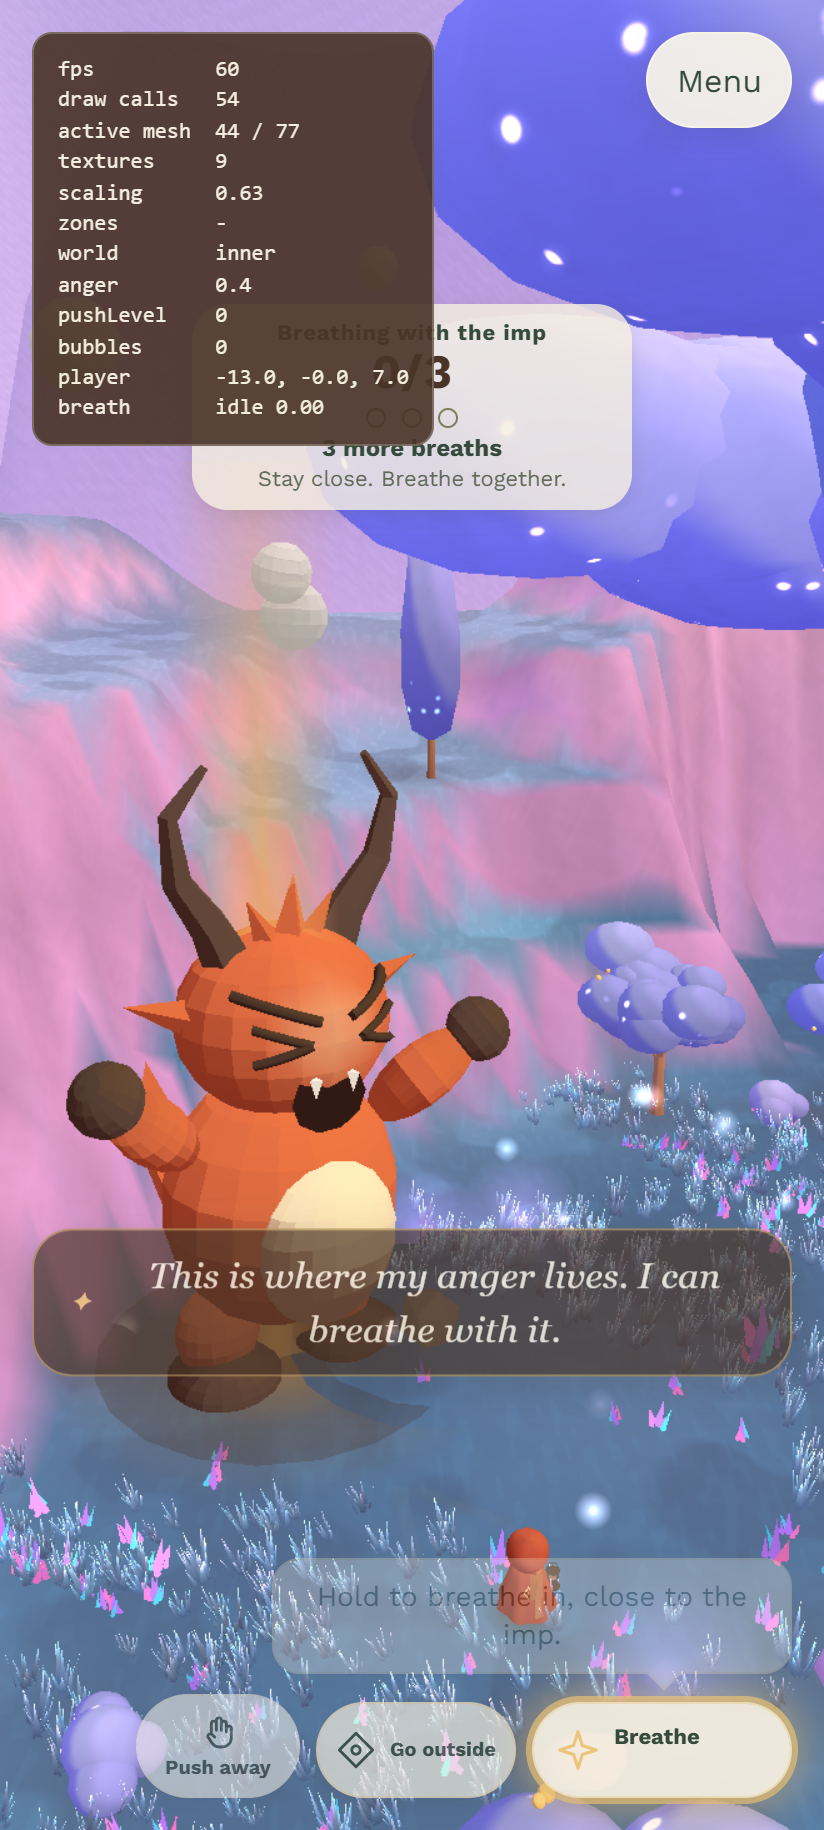
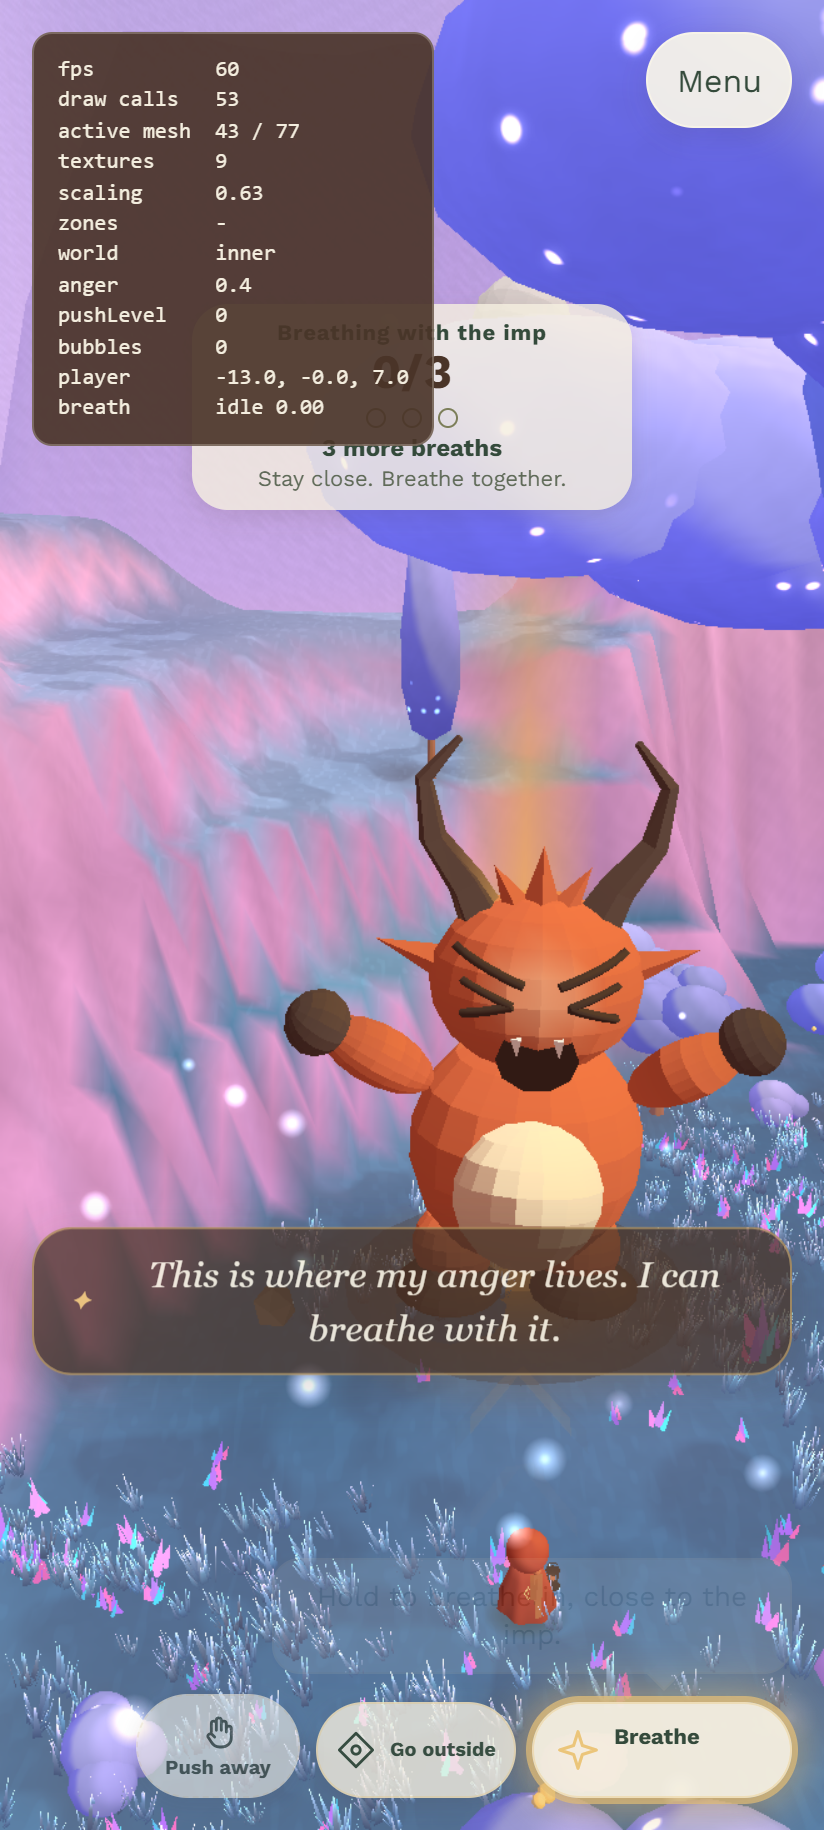
touch: how you press decides - hold to walk, swipe to turn camera, pinch to zoom

diff --git a/src/ui/TouchRouter.ts b/src/ui/TouchRouter.ts
@@ -1,52 +1,143 @@
+import { TUNING } from '../config/tuning';
 import type { Joystick } from './Joystick';
 
 /** What the router drives for the camera finger. */
 export interface LookTarget {
   dragStart(x: number, y: number): void;
-  dragMove(x: number, y: number): void;
+  dragMove(x: number, y: number, speed?: number): void;
   dragEnd(): void;
+  /** Multiplies the camera distance (pinch). Below 1 = closer. */
+  zoomBy(factor: number): void;
+}
+
+type Role = 'pending' | 'walk' | 'look' | 'pinch' | 'dead';
+
+interface Finger {
+  role: Role;
+  sx: number;
+  sy: number;
+  x: number;
+  y: number;
+  t: number;
+  timer: number;
 }
 
 /**
- * One full-screen touch zone. The first finger walks (joystick under it),
- * a finger that arrives while one walks turns the camera. Mouse is ignored.
+ * One full-screen touch zone. How a finger lands decides what it does:
+ * - rests briefly, then slides: walks (joystick under it);
+ * - moves fast right away: turns the camera;
+ * - two moving fingers: pinch zoom.
+ * A walking finger and a looking finger work together. Mouse is ignored.
  */
 export class TouchRouter {
-  private readonly roles = new Map<number, 'walk' | 'look'>();
+  private readonly fingers = new Map<number, Finger>();
+  private pinchDist = 0;
 
   constructor(
     zone: HTMLElement,
     private readonly stick: Joystick,
     private readonly look: LookTarget,
   ) {
+    const T = TUNING.touch;
     zone.addEventListener('pointerdown', (e) => {
-      if (e.pointerType === 'mouse' || this.roles.has(e.pointerId)) return;
+      if (e.pointerType === 'mouse' || this.fingers.has(e.pointerId)) return;
       e.preventDefault();
-      const roles = [...this.roles.values()];
-      if (!roles.includes('walk')) {
-        this.roles.set(e.pointerId, 'walk');
-        this.stick.begin(e.clientX, e.clientY);
-      } else if (!roles.includes('look')) {
-        this.roles.set(e.pointerId, 'look');
-        this.look.dragStart(e.clientX, e.clientY);
-      } else return;
       zone.setPointerCapture(e.pointerId);
+      const f: Finger = { role: 'pending', sx: e.clientX, sy: e.clientY, x: e.clientX, y: e.clientY, t: performance.now(), timer: 0 };
+      this.fingers.set(e.pointerId, f);
+      if (!this.has('walk')) this.stick.preview(f.sx, f.sy);
+      f.timer = window.setTimeout(() => this.decideHold(f), T.holdMs);
     });
     zone.addEventListener('pointermove', (e) => {
-      const role = this.roles.get(e.pointerId);
-      if (!role) return;
+      const f = this.fingers.get(e.pointerId);
+      if (!f) return;
       e.preventDefault();
-      if (role === 'walk') this.stick.moveTo(e.clientX, e.clientY);
-      else this.look.dragMove(e.clientX, e.clientY);
+      f.x = e.clientX;
+      f.y = e.clientY;
+      if (f.role === 'pending') {
+        if (Math.hypot(f.x - f.sx, f.y - f.sy) > T.swipeStartPx) {
+          if (performance.now() - f.t <= T.holdMs) this.decideMove(f);
+          else this.decideHold(f);
+        }
+        return;
+      }
+      if (f.role === 'walk') this.stick.moveTo(f.x, f.y);
+      else if (f.role === 'look') this.look.dragMove(f.x, f.y, T.lookSpeed);
+      else if (f.role === 'pinch') this.pinchMove();
     });
     const end = (e: PointerEvent): void => {
-      const role = this.roles.get(e.pointerId);
-      if (!role) return;
-      this.roles.delete(e.pointerId);
-      if (role === 'walk') this.stick.end();
-      else this.look.dragEnd();
+      const f = this.fingers.get(e.pointerId);
+      if (!f) return;
+      this.fingers.delete(e.pointerId);
+      window.clearTimeout(f.timer);
+      if (f.role === 'walk') this.stick.end();
+      else if (f.role === 'look') this.look.dragEnd();
+      else if (f.role === 'pinch') {
+        for (const o of this.fingers.values()) if (o.role === 'pinch') o.role = 'dead';
+      }
+      this.syncPreview();
     };
     zone.addEventListener('pointerup', end);
     zone.addEventListener('pointercancel', end);
+  }
+
+  private has(role: Role): boolean {
+    for (const f of this.fingers.values()) if (f.role === role) return true;
+    return false;
+  }
+
+  /** Shows the faint ring only while a finger could still become a walker. */
+  private syncPreview(): void {
+    if (this.has('walk')) return;
+    for (const f of this.fingers.values()) {
+      if (f.role === 'pending') {
+        this.stick.preview(f.sx, f.sy);
+        return;
+      }
+    }
+    this.stick.hidePreview();
+  }
+
+  /** The finger rested: it walks (if nobody else walks). */
+  private decideHold(f: Finger): void {
+    if (f.role !== 'pending') return;
+    window.clearTimeout(f.timer);
+    if (this.has('walk')) {
+      f.role = 'dead';
+      this.syncPreview();
+      return;
+    }
+    f.role = 'walk';
+    this.stick.begin(f.sx, f.sy);
+    this.stick.moveTo(f.x, f.y);
+  }
+
+  /** The finger moved fast: it turns the camera, or pinches with another looking finger. */
+  private decideMove(f: Finger): void {
+    window.clearTimeout(f.timer);
+    let other: Finger | null = null;
+    for (const o of this.fingers.values()) if (o !== f && o.role === 'look') other = o;
+    if (other) {
+      this.look.dragEnd();
+      other.role = 'pinch';
+      f.role = 'pinch';
+      this.pinchDist = Math.hypot(other.x - f.x, other.y - f.y);
+    } else if (this.has('pinch') || this.has('look')) {
+      f.role = 'dead';
+    } else {
+      f.role = 'look';
+      this.look.dragStart(f.sx, f.sy);
+      this.look.dragMove(f.x, f.y, TUNING.touch.lookSpeed);
+    }
+    this.syncPreview();
+  }
+
+  private pinchMove(): void {
+    const p = [...this.fingers.values()].filter((f) => f.role === 'pinch');
+    if (p.length < 2) return;
+    const d = Math.hypot(p[0]!.x - p[1]!.x, p[0]!.y - p[1]!.y);
+    if (d < 1 || this.pinchDist < 1) return;
+    this.look.zoomBy(Math.pow(this.pinchDist / d, TUNING.touch.pinchSensitivity));
+    this.pinchDist = d;
   }
 }

diff --git a/src/ui/styles.css b/src/ui/styles.css
@@ -175,6 +175,7 @@ body:has(.start-screen:not(.gone)) .joystick { visibility: hidden; pointer-event
 /* Touch hit areas sit above the two camera and walk zones. */
 .touch-zone { position: absolute; top: 0; bottom: 0; left: 0; width: 100%; pointer-events: auto; touch-action: none; }
 .joystick { position: absolute; width: 124px; height: 124px; margin: -62px 0 0 -62px; border-radius: 50%; background: rgba(244, 238, 223, 0.25); border: 2px solid rgba(244, 238, 223, 0.5); box-shadow: var(--soft-shadow); opacity: 0; transition: opacity 0.25s; pointer-events: none; z-index: 1; }
+.joystick.pending { opacity: 0.3; }
 .joystick.active { opacity: 1; }
 .js-knob { position: absolute; left: 50%; top: 50%; width: 52px; height: 52px; border: 1px solid var(--olive); border-radius: 50%; transform: translate(-50%, -50%); background: var(--ivory); box-shadow: var(--soft-shadow); }
 .breath-button, .hand-button, .look-button { position: absolute; display: flex; align-items: center; justify-content: center; padding: 0; color: var(--umber); border: 1px solid var(--olive); border-radius: 50%; background: var(--paper); box-shadow: 0 3px 0 rgba(74, 52, 40, 0.14), var(--soft-shadow); pointer-events: auto; touch-action: none; z-index: 4; transition: transform 0.2s, background 0.4s, box-shadow 0.4s, opacity 0.4s; }

diff --git a/src/inner/FollowCamera.ts b/src/inner/FollowCamera.ts
@@ -88,13 +88,20 @@ export class FollowCamera {
     this.lastY = y;
   }
 
-  dragMove(x: number, y: number): void {
-    this.turn(x - this.lastX, y - this.lastY);
+  dragMove(x: number, y: number, speed = 1): void {
+    this.turn((x - this.lastX) * speed, (y - this.lastY) * speed);
     this.lastX = x;
     this.lastY = y;
   }
 
   dragEnd(): void {}
+
+  /** Multiplies the camera distance (pinch or wheel), inside the usual limits. */
+  zoomBy(factor: number): void {
+    const c = TUNING.inner.camera;
+    this.zoom = clamp(this.zoom * factor, c.minDistance / c.distance, c.maxDistance / c.distance);
+    this.idle = 0;
+  }
 
   /** Lifts the look target toward `point` and pulls back, by `weight` 0..1 (e.g. near the big Anger Imp). */
   setFocus(point: Vector3 | null, weight: number, extraDist: number, blend: number): void {

diff --git a/src/ui/Joystick.ts b/src/ui/Joystick.ts
@@ -23,12 +23,25 @@ export class Joystick {
     parent.appendChild(this.el);
   }
 
+  /** A finger rests here and may start walking: show the ring faintly. */
+  preview(x: number, y: number): void {
+    this.el.style.left = `${x}px`;
+    this.el.style.top = `${y}px`;
+    this.knob.style.transform = 'translate(-50%, -50%)';
+    this.el.classList.add('pending');
+  }
+
+  hidePreview(): void {
+    this.el.classList.remove('pending');
+  }
+
   /** A finger starts walking here: the base appears under it. */
   begin(x: number, y: number): void {
     this.baseX = x;
     this.baseY = y;
     this.el.style.left = `${x}px`;
     this.el.style.top = `${y}px`;
+    this.el.classList.remove('pending');
     this.el.classList.add('active');
     this.move(x, y);
     this.input.markInteracted();

diff --git a/src/game/Game.ts b/src/game/Game.ts
@@ -402,6 +402,12 @@ export class Game {
         return { x: p.x, y: p.y, z: p.z };
       },
       toggle: () => this.toggle(),
+      cameraState: () => {
+        const c = this.current.camera;
+        const p = this.current.playerPosition();
+        const cam = c as unknown as { rotation: { y: number }; position: { x: number; y: number; z: number } };
+        return { yaw: cam.rotation.y, dist: Math.hypot(cam.position.x - p.x, cam.position.y - p.y, cam.position.z - p.z) };
+      },
       anger: () => this.anger.value,
       pushLevel: () => this.anger.pushLevel,
       waves: () => this.fields.get(this.current.id)?.count ?? 0,

diff --git a/src/config/tuning.ts b/src/config/tuning.ts
@@ -413,6 +413,14 @@ export const TUNING = {
   touch: {
     /** Joystick travel radius in px. */
     joystickRadius: 56,
+    /** A finger that moves farther than this (px) within holdMs turns the camera. */
+    swipeStartPx: 14,
+    /** A finger that rests this long (ms) becomes a walker. */
+    holdMs: 160,
+    /** Camera turn speed for a touch swipe, times the normal drag speed. */
+    lookSpeed: 1.5,
+    /** Pinch zoom strength: 1 = camera distance follows finger distance. */
+    pinchSensitivity: 1,
   },
   inner: {
     /** Half size of the valley floor, east-west and north-south. */
